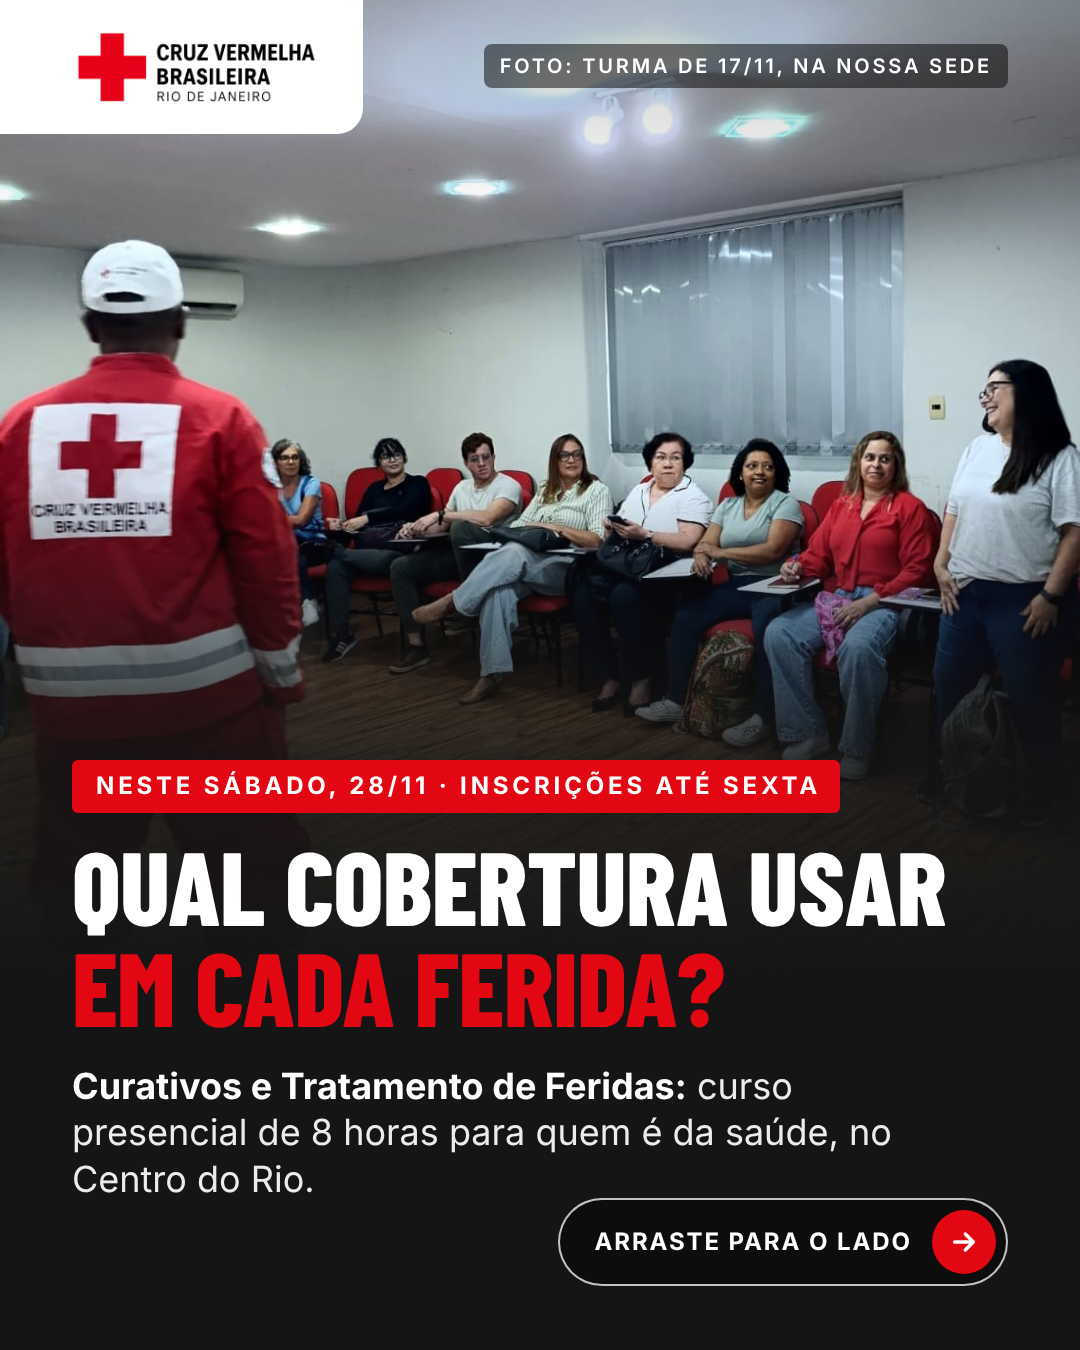
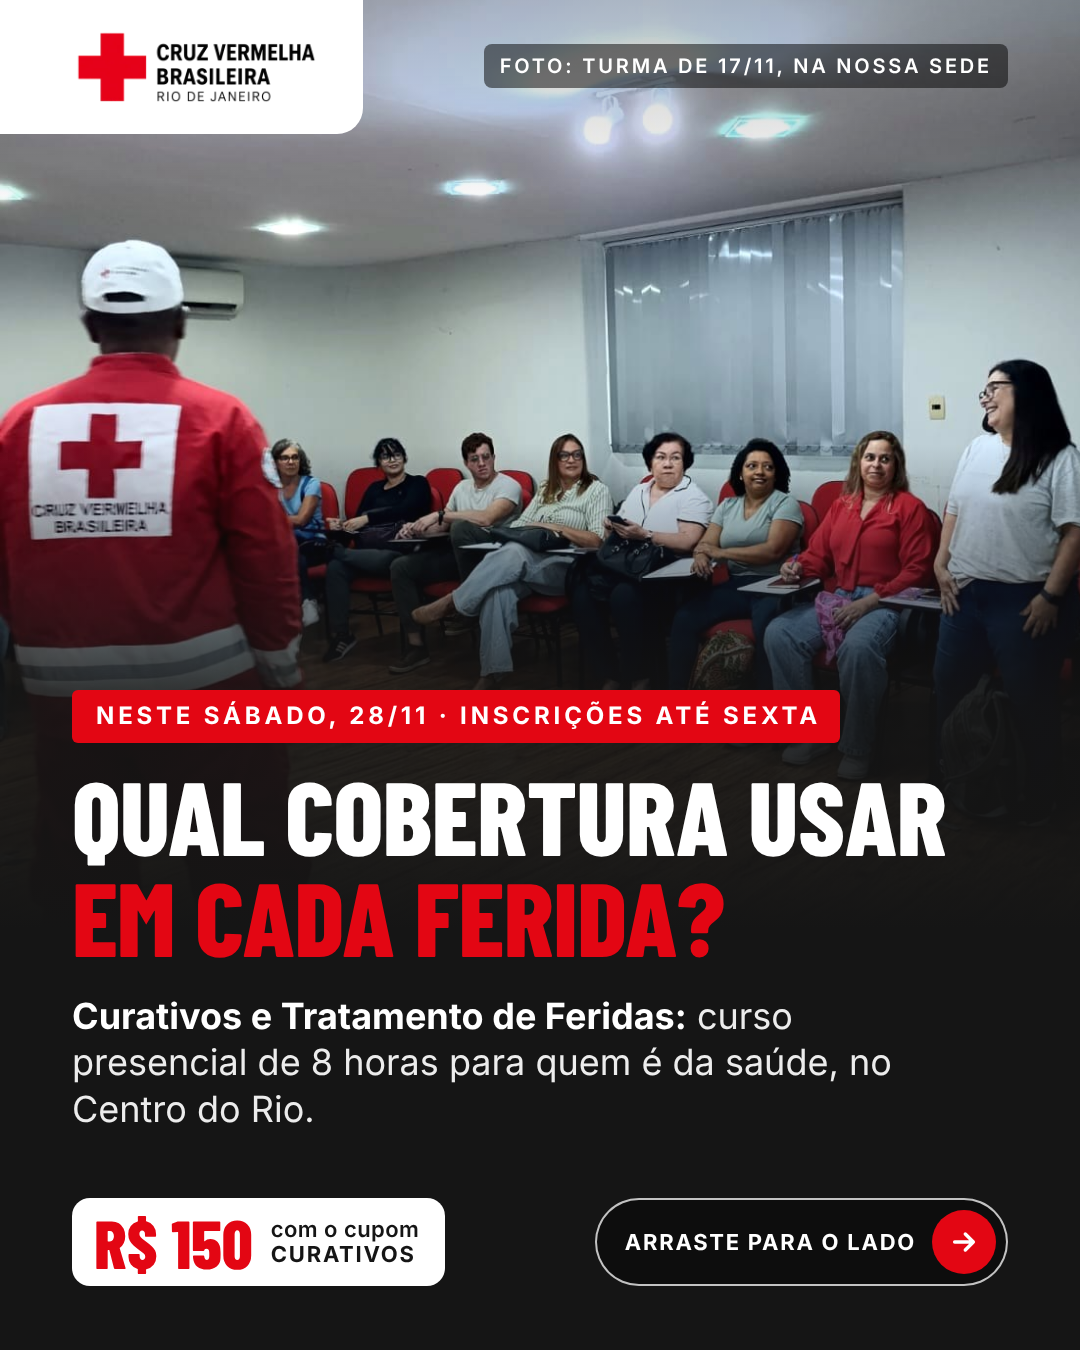
Carrossel de Curativos: preço com o cupom CURATIVOS (R$ 150) nos slides 1, 6 e 7 e na legenda
Claude-Session: https://claude.ai/code/session_018phLKcwd6cnmyNAojLSjcG

diff --git a/docs/criativos/carrossel-curativos-28-11/carrossel.html b/docs/criativos/carrossel-curativos-28-11/carrossel.html
@@ -50,14 +50,22 @@ p.t b{color:#fff;font-weight:700}.claro p.t b{color:var(--ink)}
 <!-- 1. CAPA -->
 <section class="s" id="s1">
   <div class="foto" style="height:1010px;background-image:url(img/capa.jpg);background-size:1180px auto;background-position:0% 58%"></div>
-  <style>#s1 .foto::after{background:linear-gradient(180deg,rgba(21,21,21,.25) 0%,rgba(21,21,21,0) 22%,rgba(21,21,21,0) 48%,rgba(21,21,21,.88) 76%,#151515 96%)}</style>
+  <style>
+    #s1 .preco1{position:absolute;left:72px;bottom:64px;z-index:5;height:88px;display:flex;align-items:center;gap:18px;background:#fff;color:var(--ink);border-radius:18px;padding:0 26px 0 22px}
+    #s1 .preco1 b{font:800 68px/1 "Barlow Condensed";color:var(--red);white-space:nowrap}
+    #s1 .preco1 span{font:600 22px/1.15 Inter;letter-spacing:.02em}
+    #s1 .preco1 strong{font-weight:700;letter-spacing:.08em}
+    #s1 .arraste{padding-left:28px;gap:16px;font-size:22px}
+    #s1 .foto::after{background:linear-gradient(180deg,rgba(21,21,21,.25) 0%,rgba(21,21,21,0) 22%,rgba(21,21,21,0) 44%,rgba(21,21,21,.88) 70%,#151515 92%)}
+  </style>
   <div class="logo"><img src="img/logo.png" alt=""></div>
   <div class="cred" style="right:72px;top:44px;background:rgba(0,0,0,.5)">Foto: turma de 17/11, na nossa sede</div>
-  <div class="c" style="top:760px">
+  <div class="c" style="top:690px">
     <span class="tag" style="letter-spacing:.16em">Neste sábado, 28/11 · inscrições até sexta</span>
     <h1 style="margin-top:22px;font-size:104px;white-space:nowrap">Qual cobertura usar<span>em cada ferida?</span></h1>
     <p class="t" style="margin-top:26px;max-width:880px"><b>Curativos e Tratamento de Feridas:</b> curso presencial de 8 horas para quem é da saúde, no Centro do Rio.</p>
   </div>
+  <div class="preco1"><b>R$ 150</b><span>com o cupom<br><strong>CURATIVOS</strong></span></div>
   <div class="arraste">Arraste para o lado <i><svg viewBox="0 0 24 24"><path d="M5 12h14M13 6l6 6-6 6"/></svg></i></div>
 </section>
 
@@ -191,11 +199,11 @@ p.t b{color:#fff;font-weight:700}.claro p.t b{color:var(--ink)}
     <span class="tag">Anote aí</span>
     <h2 style="margin-top:20px">Sábado,<span>28 de novembro</span></h2>
   </div>
-  <div class="c" style="top:880px;right:180px">
+  <div class="c" style="top:850px;right:72px">
     <ul>
       <li><span class="ic"><svg viewBox="0 0 24 24"><circle cx="12" cy="12" r="9"/><path d="M12 7v5l3.500 2"/></svg></span><span><b>Das 9h às 17h</b><small>8 horas de curso, num dia só</small></span></li>
       <li><span class="ic"><svg viewBox="0 0 24 24"><path d="M12 21s-7-6.200-7-11.500a7 7 0 0 1 14 0C19 14.800 12 21 12 21z"/><circle cx="12" cy="9.500" r="2.500"/></svg></span><span><b>Palácio da Cruz Vermelha</b><small>Praça da Cruz Vermelha, 10 · Centro do Rio</small></span></li>
-      <li><span class="ic"><svg viewBox="0 0 24 24"><rect x="2.500" y="5" width="19" height="14" rx="2"/><path d="M2.500 10h19M6.500 15h4"/></svg></span><span><b>R$ 249 à vista</b><small>ou em até 12x no cartão (com juros)</small></span></li>
+      <li><span class="ic"><svg viewBox="0 0 24 24"><rect x="2.500" y="5" width="19" height="14" rx="2"/><path d="M2.500 10h19M6.500 15h4"/></svg></span><span><b>R$ 150 com o cupom Curativos</b><small>De R$ 249 · à vista ou em até 12x no cartão (com juros)</small></span></li>
     </ul>
   </div>
   <div class="seta"><svg viewBox="0 0 24 24"><path d="M5 12h14M13 6l6 6-6 6"/></svg></div>
@@ -214,11 +222,12 @@ p.t b{color:#fff;font-weight:700}.claro p.t b{color:var(--ink)}
   </style>
   <div class="logo p"><img src="img/logo.png" alt=""></div>
   <div class="num">Curativos e feridas<b>7 / 7</b></div>
-  <div class="c" style="top:640px">
+  <div class="c" style="top:620px">
     <span class="tag">A gente espera você no Palácio</span>
     <h2 style="margin-top:22px;font-size:124px">Inscrições até<span>sexta, 27/11</span></h2>
     <div class="bio" style="margin-top:34px">Link na bio <i><svg viewBox="0 0 24 24"><path d="M7 17L17 7M9 7h8v8"/></svg></i></div>
-    <p class="t" style="margin-top:36px">Dúvidas? WhatsApp da Secretaria: <b>(21) 99992-2864</b></p>
+    <p class="t" style="margin-top:34px">Cupom <b>CURATIVOS</b> já aplicado no site: <b>R$ 150</b></p>
+    <p class="t" style="margin-top:14px">Dúvidas? WhatsApp da Secretaria: <b>(21) 99992-2864</b></p>
     <p class="t" style="margin-top:14px;font-size:32px;opacity:.92">Envie este post para quem divide o plantão com você.</p>
   </div>
 </section>

diff --git a/docs/criativos/carrossel-curativos-28-11/LEIAME.md b/docs/criativos/carrossel-curativos-28-11/LEIAME.md
@@ -11,8 +11,10 @@
   5 para quem é e certificado · 6 data, lugar e valor · 7 prazo e chamada.
 - Link para a bio: `https://cruzvermelhariodejaneiro.org/matricula-cursos-presenciais/?curso=curativos-e-tratamento-de-feridas`
 - Dados conferidos em 25/11/2026 no `cursos.json` e no site publicado: turma aberta (`lotada: false`), inscrições até
-  27/11 às 23h59, R$ 249 (R$ 99 de inscrição + R$ 150 do curso) e parcelamento ligado no checkout, em até 12x no
-  cartão, com juros. Se a turma lotar ou o parcelamento sair do ar, não publique sem refazer os slides 6 e 7.
+  27/11 às 23h59, tabela de R$ 249 (R$ 99 de inscrição + R$ 150 do curso), cupom CURATIVOS no ar (R$ 150 com tudo
+  incluso, sem limite de vagas, até 30/11, já aplicado no checkout do curso) e parcelamento ligado, em até 12x no
+  cartão, com juros, também com o cupom. Se a turma lotar, o cupom sair ou o parcelamento sair do ar, não publique
+  sem refazer os slides 1, 6 e 7 e a legenda.
 - Ficaram de fora, como nos banners: "certificado internacional", "vagas limitadas", "últimas vagas" e "sem juros".
 
 ## Legenda
@@ -34,7 +36,7 @@ Para quem é: profissionais e estudantes da área da saúde, com 18 anos ou mais
 📅 Sábado, 28/11, das 9h às 17h
 📍 Palácio da Cruz Vermelha: Praça da Cruz Vermelha, 10, Centro do Rio
 🎓 Certificado da Cruz Vermelha Brasileira – Filial Rio de Janeiro (8 horas)
-💳 R$ 249 à vista ou em até 12x no cartão (com juros; o valor de cada parcela aparece na hora da inscrição)
+💳 De R$ 249 por R$ 150 com o cupom CURATIVOS, que já entra aplicado no site. À vista ou em até 12x no cartão (com juros; o valor de cada parcela aparece na hora da inscrição)
 
 👉 Inscrições até sexta, 27/11, pelo link na bio.
 Dúvidas? WhatsApp da Secretaria: (21) 99992-2864.
@@ -47,10 +49,10 @@ O curso é de aperfeiçoamento: não substitui a formação profissional nem amp
 
 ## Texto alternativo (um por slide)
 
-1. Instrutor da Cruz Vermelha, de uniforme vermelho, de costas, diante de uma turma sentada em sala de aula. Texto: Neste sábado, 28/11, inscrições até sexta. Qual cobertura usar em cada ferida? Curativos e Tratamento de Feridas: curso presencial de 8 horas para quem é da saúde, no Centro do Rio.
+1. Instrutor da Cruz Vermelha, de uniforme vermelho, de costas, diante de uma turma sentada em sala de aula. Texto: Neste sábado, 28/11, inscrições até sexta. Qual cobertura usar em cada ferida? Curativos e Tratamento de Feridas: curso presencial de 8 horas para quem é da saúde, no Centro do Rio. R$ 150 com o cupom CURATIVOS.
 2. Texto: No plantão, no home care, no estágio, a dúvida sempre aparece. "Limpo essa ferida com quê?" "Qual cobertura eu uso aqui?" "É lesão por pressão? Como eu classifico?" No curso, você treina cada resposta, com teoria e prática simulada.
 3. Texto: O que você aprende, da avaliação ao curativo. Tipos de feridas e cicatrização; avaliação e classificação das lesões; limpeza, antissepsia e biossegurança; coberturas: qual usar e quando; curativos simples e especiais; lesão por pressão: prevenção e cuidados.
 4. Duas alunas praticam uma técnica em dupla, observadas pela turma (foto de outra turma: Primeiros Socorros de 17/11, na sede). Texto: Como é a aula: aqui se aprende fazendo. Demonstração das técnicas, aplicação de coberturas, práticas simuladas.
 5. Texto: Público e certificado: feito para quem é da saúde. Profissionais e estudantes da área da saúde, com 18 anos ou mais, ensino médio e conhecimentos básicos na área. Certificado da Cruz Vermelha Brasileira – Filial Rio de Janeiro, 8 horas. Curso de aperfeiçoamento: não substitui a formação profissional nem amplia as atribuições legais de cada categoria.
-6. A entrada do Palácio da Cruz Vermelha, com o portão de ferro e a escadaria. Texto: Sábado, 28 de novembro, das 9h às 17h. Palácio da Cruz Vermelha, Praça da Cruz Vermelha, 10, Centro do Rio. R$ 249 à vista ou em até 12x no cartão, com juros.
-7. Equipe da Cruz Vermelha, de colete branco e uniforme vermelho, em frente ao Palácio. Texto: A gente espera você no Palácio. Inscrições até sexta, 27/11. Link na bio. Dúvidas? WhatsApp da Secretaria: (21) 99992-2864.
+6. A entrada do Palácio da Cruz Vermelha, com o portão de ferro e a escadaria. Texto: Sábado, 28 de novembro, das 9h às 17h. Palácio da Cruz Vermelha, Praça da Cruz Vermelha, 10, Centro do Rio. R$ 150 com o cupom CURATIVOS (de R$ 249), à vista ou em até 12x no cartão, com juros.
+7. Equipe da Cruz Vermelha, de colete branco e uniforme vermelho, em frente ao Palácio. Texto: A gente espera você no Palácio. Inscrições até sexta, 27/11. Link na bio. Cupom CURATIVOS já aplicado no site: R$ 150. Dúvidas? WhatsApp da Secretaria: (21) 99992-2864.
